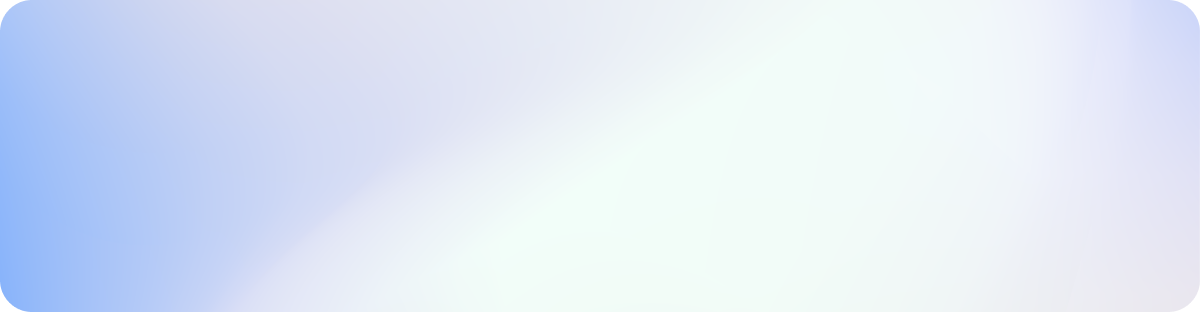
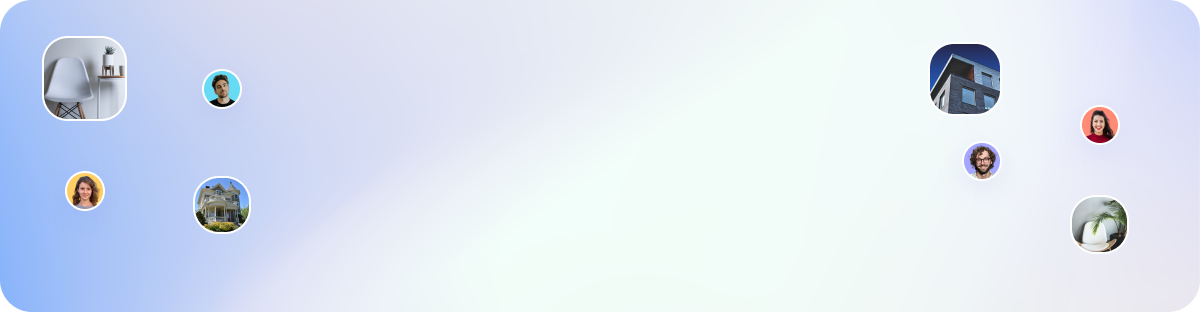
Fix sizes and console issues

diff --git a/src/components/Subscription.tsx b/src/components/Subscription.tsx
@@ -1,13 +1,5 @@
 import background from "../assets/subscription-background.png";
 import envelope from "../assets/envelope.svg";
-import chair1 from "../assets/chair-1.jpg";
-import avatar6 from "../assets/avatar-6.jpg";
-import avatar3 from "../assets/avatar-3.jpg";
-import house16 from "../assets/house-16.jpg";
-import house17 from "../assets/house-17.jpg";
-import avatar12 from "../assets/avatar-12.jpg";
-import avatar9 from "../assets/avatar-9.jpg";
-import chair2 from "../assets/chair-2.jpg";
 
 const Subscription = () => (
   <section className="mb-[7.5rem]">
@@ -16,46 +8,6 @@ const Subscription = () => (
         src={background}
         alt="Blue background"
         className="absolute top-0 -z-10 w-full"
-      />
-      <img
-        src={chair1}
-        alt="Chair"
-        className="absolute top-[2.375rem] left-[2.75rem] box-content h-[5.063rem] w-[5.063rem] rounded-3xl border-2 border-white object-cover"
-      />
-      <img
-        src={avatar6}
-        alt="Man"
-        className="absolute top-[4.438rem] left-[12.75rem] box-content w-9 rounded-full border-2 border-white"
-      />
-      <img
-        src={avatar3}
-        alt="Woman"
-        className="absolute bottom-[6.438rem] left-[4.188rem] box-content w-9 rounded-full border-2 border-white"
-      />
-      <img
-        src={house16}
-        alt="House"
-        className="absolute bottom-[5rem] left-[12.188rem] box-content h-[3.375rem] w-[3.375rem] rounded-3xl border-2 border-white object-cover"
-      />
-      <img
-        src={house17}
-        alt="House"
-        className="absolute top-[2.75rem] right-[12.5rem] box-content h-[4.375rem] w-[4.375rem] rounded-3xl border-2 border-white object-cover"
-      />
-      <img
-        src={avatar12}
-        alt="Woman"
-        className="absolute top-[6.688rem] right-[5.125rem] box-content w-9 rounded-full border-2 border-white"
-      />
-      <img
-        src={avatar9}
-        alt="Man"
-        className="absolute bottom-[8.313rem] right-[12.5rem] box-content w-9 rounded-full border-2 border-white"
-      />
-      <img
-        src={chair2}
-        alt="Chair"
-        className="absolute bottom-[3.75rem] right-[4.563rem] box-content h-[3.438rem] w-[3.438rem] rounded-3xl border-2 border-white object-cover"
       />
       <div className="flex h-full items-center justify-center">
         <div className="w-[31rem]">

diff --git a/src/components/Header.tsx b/src/components/Header.tsx
@@ -14,21 +14,21 @@ const Header = () => (
             <li>
               <a
                 href="/about"
-                className="block rounded-[32px] border border-white/30 bg-white/10 px-4 text-sm font-semibold leading-[2rem] text-[#f0f3fd]"
+                className="flex h-8 items-center rounded-[32px] border border-white/30 bg-white/10 px-4 text-sm font-semibold text-[#f0f3fd]"
               >
-                <div className="w-16">About Us</div>
+                About Us
               </a>
             </li>
             <li>
               <a
                 href="/article"
-                className="block rounded-[32px] border border-white/30 bg-white/10 px-4 text-sm font-semibold leading-[2rem] text-[#f0f3fd]"
+                className="flex h-8 items-center rounded-[32px] border border-white/30 bg-white/10 px-4 text-sm font-semibold text-[#f0f3fd]"
               >
-                <div className="w-[2.8755rem]">Article</div>
+                Article
               </a>
             </li>
             <li>
-              <button className="block rounded-[32px] border border-white/30 bg-white/10 px-4 text-sm font-semibold leading-[2rem] text-[#f0f3fd]">
+              <button className="h-8 rounded-[32px] border border-white/30 bg-white/10 px-4 text-sm font-semibold text-[#f0f3fd]">
                 <span className="mr-2.5 inline-block w-[3.875rem]">
                   Property
                 </span>
@@ -37,10 +37,11 @@ const Header = () => (
             </li>
           </ul>
         </nav>
-        <a href="/sign-up" className="block">
-          <span className="block rounded-[32px] border border-[#d1fae5] bg-[#d1fae5] px-6 text-sm font-semibold leading-[2.875rem] text-[#047857]">
-            Sign Up!
-          </span>
+        <a
+          href="/sign-up"
+          className="flex h-[2.875rem] items-center rounded-[32px] border border-[#d1fae5] bg-[#d1fae5] px-6 text-sm font-semibold leading-[2.875rem] text-[#047857]"
+        >
+          Sign Up!
         </a>
       </div>
     </div>

diff --git a/src/components/Review.tsx b/src/components/Review.tsx
@@ -27,25 +27,27 @@ const Review: FC<{ review: ReviewData }> = ({
         <div>
           <dt className="sr-only">User's info</dt>
           <dd className="flex gap-x-6">
-            <dt className="sr-only">User's avatar</dt>
-            <dd>
-              <img src={userImg} alt="Woman" className="w-10 rounded-full" />
-            </dd>
-            <div>
-              <dt className="sr-only">User's details</dt>
+            <dl>
+              <dt className="sr-only">User's avatar</dt>
               <dd>
-                <dl>
-                  <dt className="sr-only">User's name</dt>
-                  <dd className="mb-1 text-sm font-medium leading-[1.375rem] text-[#0e1735]">
-                    {name}
-                  </dd>
-                  <dt className="sr-only">User's title</dt>
-                  <dd className="text-sm font-medium leading-[1.375rem] text-[#888b97]">
-                    {jobTitle}
-                  </dd>
-                </dl>
+                <img src={userImg} alt="Woman" className="w-10 rounded-full" />
               </dd>
-            </div>
+              <div>
+                <dt className="sr-only">User's details</dt>
+                <dd>
+                  <dl>
+                    <dt className="sr-only">User's name</dt>
+                    <dd className="mb-1 text-sm font-medium leading-[1.375rem] text-[#0e1735]">
+                      {name}
+                    </dd>
+                    <dt className="sr-only">User's title</dt>
+                    <dd className="text-sm font-medium leading-[1.375rem] text-[#888b97]">
+                      {jobTitle}
+                    </dd>
+                  </dl>
+                </dd>
+              </div>
+            </dl>
           </dd>
         </div>
         <div>

diff --git a/src/components/Reviews.tsx b/src/components/Reviews.tsx
@@ -12,6 +12,7 @@ import pagination from "../assets/pagination.svg";
 const Reviews = () => {
   const reviews: ReviewData[] = [
     {
+      id: 1,
       img: house10,
       title: "My house sold out fast!",
       text: "I was finally able to sell my house quickly through Hounter by immediately setting me up with people who wanted my house. I also do not get a discount from the sale of my house. Awesome!",
@@ -23,6 +24,7 @@ const Reviews = () => {
       rating: 4.3,
     },
     {
+      id: 2,
       img: house11,
       title: "Best! I got the house I wanted through Hounter",
       text: "Through this website I can get a house with the type and specifications I want very easily, without a complicated process to be able to find information on the house we want.",
@@ -34,6 +36,7 @@ const Reviews = () => {
       rating: 4.6,
     },
     {
+      id: 3,
       img: house12,
       title: "Through the Hounter, I can get a house for my self",
       text: "By looking for information about what kind of house we want, we managed to get the house we wanted very quickly, and directly connected with the seller to be able to ask about the details, very helpful!",
@@ -60,7 +63,7 @@ const Reviews = () => {
       <div>
         <div className="relative -right-1/2 mb-8 flex w-[calc(46.25rem*3+3.5rem*2)] -translate-x-1/2 gap-x-14">
           {reviews.map((review) => (
-            <Review review={review} />
+            <Review key={review.id} review={review} />
           ))}
         </div>
         <img src={pagination} alt="Pagination" className="mx-auto" />

diff --git a/src/components/Tips.tsx b/src/components/Tips.tsx
@@ -14,6 +14,7 @@ import cloud from "../assets/cloud-4.png";
 const Tips = () => {
   const sideTips: SideTipData[] = [
     {
+      id: 1,
       img: apartment2,
       author: { img: avatar3, name: "Dianne Russell" },
       title: "The things we need to check when we want to buy a house",
@@ -21,6 +22,7 @@ const Tips = () => {
       publicationDate: "25 Apr 2021",
     },
     {
+      id: 2,
       img: house13,
       author: { img: avatar9, name: "Courtney Henry" },
       title: "7 Ways to distinguish the quality of the house we want to buy",
@@ -28,6 +30,7 @@ const Tips = () => {
       publicationDate: "24 Apr 2021",
     },
     {
+      id: 3,
       img: house14,
       author: { img: avatar10, name: "Darlene Robertson" },
       title: "The best way to know the quality of the house we want to buy",
@@ -62,7 +65,7 @@ const Tips = () => {
         <div className="flex gap-[4.25rem]">
           <div className="aspect-[572/524] w-[calc(100%*(572/1200))]">
             {sideTips.map((tip) => (
-              <SideTip data={tip} />
+              <SideTip key={tip.id} data={tip} />
             ))}
           </div>
           <MainTip

diff --git a/src/components/Hero.tsx b/src/components/Hero.tsx
@@ -13,13 +13,13 @@ import house2 from "../assets/house-2.png";
 import avatar4 from "../assets/avatar-4.jpg";
 
 const Hero = () => (
-  <section className="mb-[7.5rem] flex w-[calc(100%+7.5rem)] items-start">
-    <div className="flex-1 pt-[11.375rem] pr-[6.5rem]">
-      <img
-        src={cloud1}
-        alt="Blue cloud"
-        className="absolute top-0 left-0 -z-10"
-      />
+  <section className="mb-[7.5rem] flex w-[calc(100%+7.5rem)] items-start gap-x-[6.5rem]">
+    <img
+      src={cloud1}
+      alt="Blue cloud"
+      className="absolute top-0 left-0 -z-10"
+    />
+    <div className="flex-1 pt-[11.375rem]">
       <h1
         className="mb-6 text-[2.5rem] font-semibold leading-[3.125rem] text-[#1b1c57]"
         style={{

diff --git a/src/components/Tour.tsx b/src/components/Tour.tsx
@@ -146,12 +146,12 @@ const Tour = () => (
     <img
       src={cloud2}
       alt="Red cloud"
-      className="absolute -right-[13.375rem] -top-[10.625rem] -z-10 aspect-[438/494] w-[36.5%]"
+      className="absolute -right-36 -top-64 -z-10 aspect-[438/494] w-[36.5%]"
     />
     <img
       src={cloud3}
       alt="Yellow cloud"
-      className="absolute -right-[17.063rem] -top-12 -z-10 aspect-[438/494] w-[36.5%]"
+      className="absolute -right-64 -top-40 -z-10 aspect-[438/494] w-[36.5%]"
     />
   </section>
 );

diff --git a/src/utils/types.ts b/src/utils/types.ts
@@ -23,6 +23,7 @@ type OfferData = {
 };
 
 type ReviewData = {
+  id: number;
   img: string;
   title: string;
   text: string;
@@ -44,7 +45,7 @@ type TipData = {
   publicationDate: string;
 };
 
-type SideTipData = TipData & { isMain?: false };
+type SideTipData = TipData & { id: number; isMain?: false };
 
 type MainTipData = TipData & { isMain: true; text: string };
 
